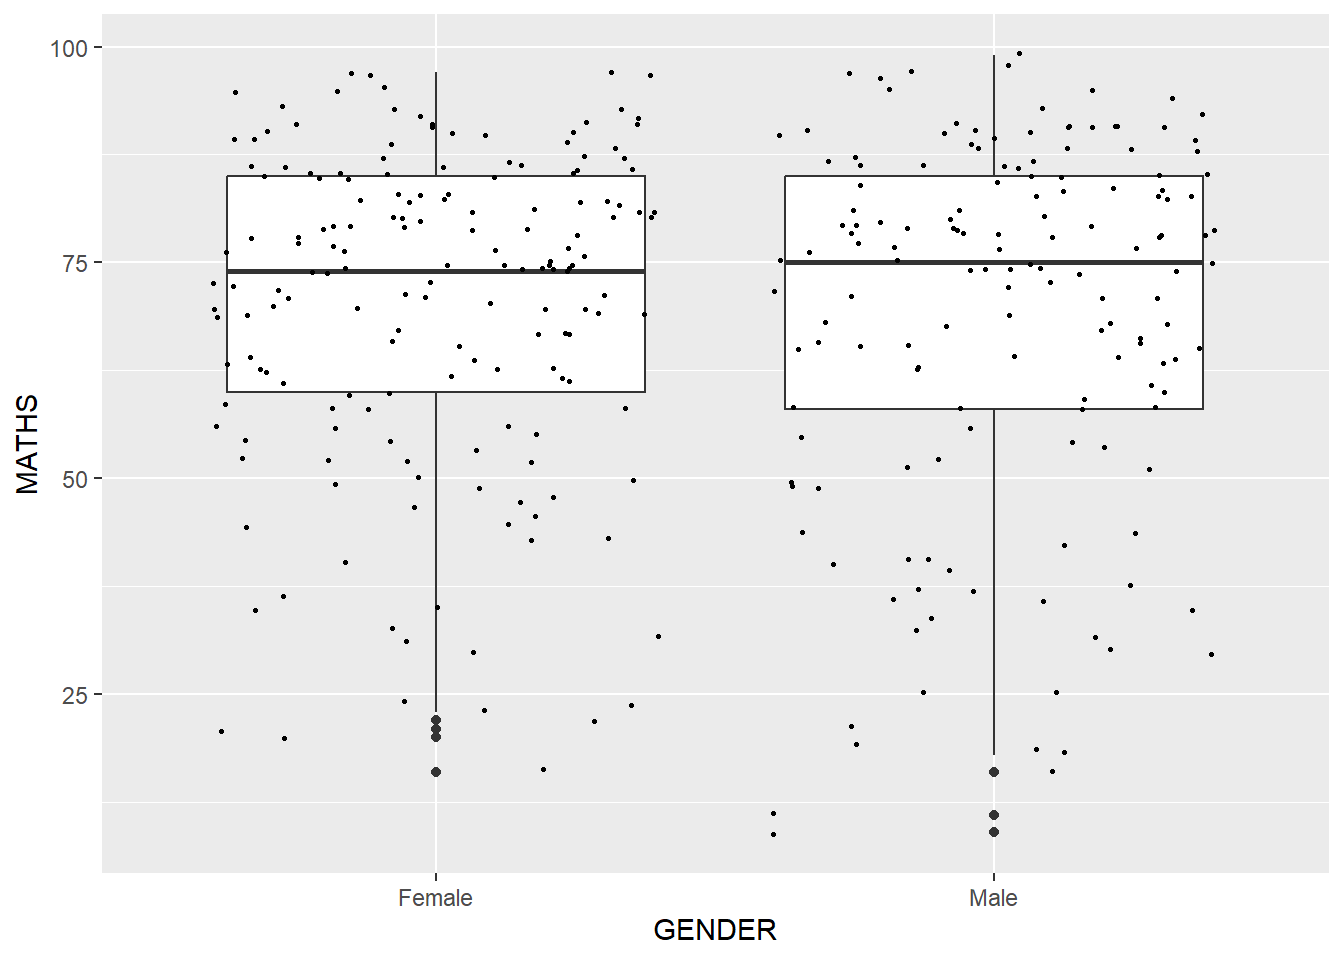
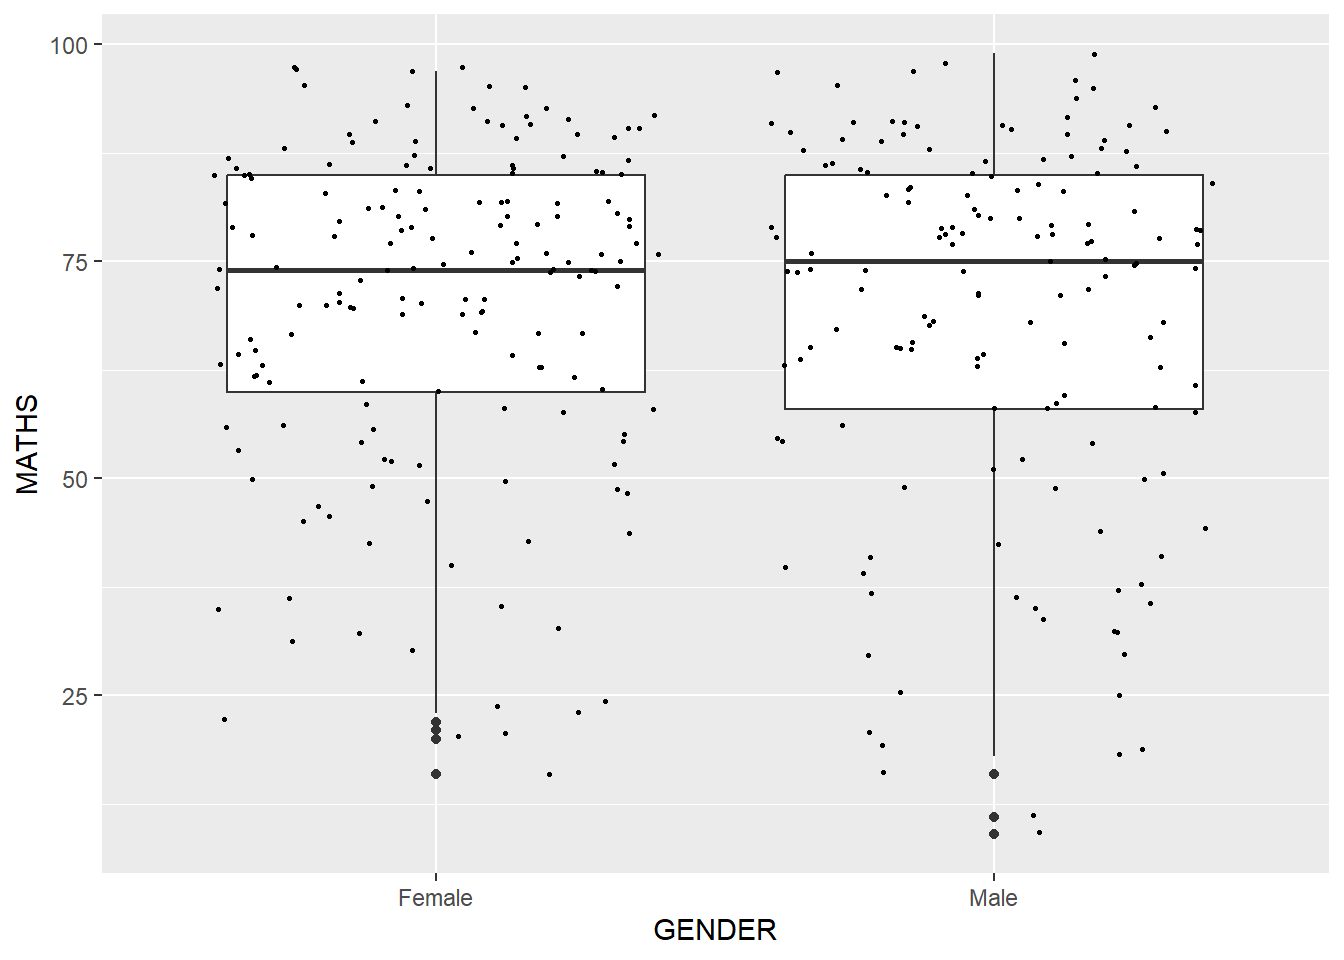
minor change

diff --git a/site_libs/clipboard/clipboard.min.js b/site_libs/clipboard/clipboard.min.js
@@ -1,0 +1,7 @@
+/*!
+ * clipboard.js v2.0.11
+ * https://clipboardjs.com/
+ *
+ * Licensed MIT © Zeno Rocha
+ */
+!function(t,e){"object"==typeof exports&&"object"==typeof module?module.exports=e():"function"==typeof define&&define.amd?define([],e):"object"==typeof exports?exports.ClipboardJS=e():t.ClipboardJS=e()}(this,function(){return n={686:function(t,e,n){"use strict";n.d(e,{default:function(){return b}});var e=n(279),i=n.n(e),e=n(370),u=n.n(e),e=n(817),r=n.n(e);function c(t){try{return document.execCommand(t)}catch(t){return}}var a=function(t){t=r()(t);return c("cut"),t};function o(t,e){var n,o,t=(n=t,o="rtl"===document.documentElement.getAttribute("dir"),(t=document.createElement("textarea")).style.fontSize="12pt",t.style.border="0",t.style.padding="0",t.style.margin="0",t.style.position="absolute",t.style[o?"right":"left"]="-9999px",o=window.pageYOffset||document.documentElement.scrollTop,t.style.top="".concat(o,"px"),t.setAttribute("readonly",""),t.value=n,t);return e.container.appendChild(t),e=r()(t),c("copy"),t.remove(),e}var f=function(t){var e=1<arguments.length&&void 0!==arguments[1]?arguments[1]:{container:document.body},n="";return"string"==typeof t?n=o(t,e):t instanceof HTMLInputElement&&!["text","search","url","tel","password"].includes(null==t?void 0:t.type)?n=o(t.value,e):(n=r()(t),c("copy")),n};function l(t){return(l="function"==typeof Symbol&&"symbol"==typeof Symbol.iterator?function(t){return typeof t}:function(t){return t&&"function"==typeof Symbol&&t.constructor===Symbol&&t!==Symbol.prototype?"symbol":typeof t})(t)}var s=function(){var t=0<arguments.length&&void 0!==arguments[0]?arguments[0]:{},e=t.action,n=void 0===e?"copy":e,o=t.container,e=t.target,t=t.text;if("copy"!==n&&"cut"!==n)throw new Error('Invalid "action" value, use either "copy" or "cut"');if(void 0!==e){if(!e||"object"!==l(e)||1!==e.nodeType)throw new Error('Invalid "target" value, use a valid Element');if("copy"===n&&e.hasAttribute("disabled"))throw new Error('Invalid "target" attribute. Please use "readonly" instead of "disabled" attribute');if("cut"===n&&(e.hasAttribute("readonly")||e.hasAttribute("disabled")))throw new Error('Invalid "target" attribute. You can\'t cut text from elements with "readonly" or "disabled" attributes')}return t?f(t,{container:o}):e?"cut"===n?a(e):f(e,{container:o}):void 0};function p(t){return(p="function"==typeof Symbol&&"symbol"==typeof Symbol.iterator?function(t){return typeof t}:function(t){return t&&"function"==typeof Symbol&&t.constructor===Symbol&&t!==Symbol.prototype?"symbol":typeof t})(t)}function d(t,e){for(var n=0;n<e.length;n++){var o=e[n];o.enumerable=o.enumerable||!1,o.configurable=!0,"value"in o&&(o.writable=!0),Object.defineProperty(t,o.key,o)}}function y(t,e){return(y=Object.setPrototypeOf||function(t,e){return t.__proto__=e,t})(t,e)}function h(n){var o=function(){if("undefined"==typeof Reflect||!Reflect.construct)return!1;if(Reflect.construct.sham)return!1;if("function"==typeof Proxy)return!0;try{return Date.prototype.toString.call(Reflect.construct(Date,[],function(){})),!0}catch(t){return!1}}();return function(){var t,e=v(n);return t=o?(t=v(this).constructor,Reflect.construct(e,arguments,t)):e.apply(this,arguments),e=this,!(t=t)||"object"!==p(t)&&"function"!=typeof t?function(t){if(void 0!==t)return t;throw new ReferenceError("this hasn't been initialised - super() hasn't been called")}(e):t}}function v(t){return(v=Object.setPrototypeOf?Object.getPrototypeOf:function(t){return t.__proto__||Object.getPrototypeOf(t)})(t)}function m(t,e){t="data-clipboard-".concat(t);if(e.hasAttribute(t))return e.getAttribute(t)}var b=function(){!function(t,e){if("function"!=typeof e&&null!==e)throw new TypeError("Super expression must either be null or a function");t.prototype=Object.create(e&&e.prototype,{constructor:{value:t,writable:!0,configurable:!0}}),e&&y(t,e)}(r,i());var t,e,n,o=h(r);function r(t,e){var n;return function(t){if(!(t instanceof r))throw new TypeError("Cannot call a class as a function")}(this),(n=o.call(this)).resolveOptions(e),n.listenClick(t),n}return t=r,n=[{key:"copy",value:function(t){var e=1<arguments.length&&void 0!==arguments[1]?arguments[1]:{container:document.body};return f(t,e)}},{key:"cut",value:function(t){return a(t)}},{key:"isSupported",value:function(){var t=0<arguments.length&&void 0!==arguments[0]?arguments[0]:["copy","cut"],t="string"==typeof t?[t]:t,e=!!document.queryCommandSupported;return t.forEach(function(t){e=e&&!!document.queryCommandSupported(t)}),e}}],(e=[{key:"resolveOptions",value:function(){var t=0<arguments.length&&void 0!==arguments[0]?arguments[0]:{};this.action="function"==typeof t.action?t.action:this.defaultAction,this.target="function"==typeof t.target?t.target:this.defaultTarget,this.text="function"==typeof t.text?t.text:this.defaultText,this.container="object"===p(t.container)?t.container:document.body}},{key:"listenClick",value:function(t){var e=this;this.listener=u()(t,"click",function(t){return e.onClick(t)})}},{key:"onClick",value:function(t){var e=t.delegateTarget||t.currentTarget,n=this.action(e)||"copy",t=s({action:n,container:this.container,target:this.target(e),text:this.text(e)});this.emit(t?"success":"error",{action:n,text:t,trigger:e,clearSelection:function(){e&&e.focus(),window.getSelection().removeAllRanges()}})}},{key:"defaultAction",value:function(t){return m("action",t)}},{key:"defaultTarget",value:function(t){t=m("target",t);if(t)return document.querySelector(t)}},{key:"defaultText",value:function(t){return m("text",t)}},{key:"destroy",value:function(){this.listener.destroy()}}])&&d(t.prototype,e),n&&d(t,n),r}()},828:function(t){var e;"undefined"==typeof Element||Element.prototype.matches||((e=Element.prototype).matches=e.matchesSelector||e.mozMatchesSelector||e.msMatchesSelector||e.oMatchesSelector||e.webkitMatchesSelector),t.exports=function(t,e){for(;t&&9!==t.nodeType;){if("function"==typeof t.matches&&t.matches(e))return t;t=t.parentNode}}},438:function(t,e,n){var u=n(828);function i(t,e,n,o,r){var i=function(e,n,t,o){return function(t){t.delegateTarget=u(t.target,n),t.delegateTarget&&o.call(e,t)}}.apply(this,arguments);return t.addEventListener(n,i,r),{destroy:function(){t.removeEventListener(n,i,r)}}}t.exports=function(t,e,n,o,r){return"function"==typeof t.addEventListener?i.apply(null,arguments):"function"==typeof n?i.bind(null,document).apply(null,arguments):("string"==typeof t&&(t=document.querySelectorAll(t)),Array.prototype.map.call(t,function(t){return i(t,e,n,o,r)}))}},879:function(t,n){n.node=function(t){return void 0!==t&&t instanceof HTMLElement&&1===t.nodeType},n.nodeList=function(t){var e=Object.prototype.toString.call(t);return void 0!==t&&("[object NodeList]"===e||"[object HTMLCollection]"===e)&&"length"in t&&(0===t.length||n.node(t[0]))},n.string=function(t){return"string"==typeof t||t instanceof String},n.fn=function(t){return"[object Function]"===Object.prototype.toString.call(t)}},370:function(t,e,n){var f=n(879),l=n(438);t.exports=function(t,e,n){if(!t&&!e&&!n)throw new Error("Missing required arguments");if(!f.string(e))throw new TypeError("Second argument must be a String");if(!f.fn(n))throw new TypeError("Third argument must be a Function");if(f.node(t))return c=e,a=n,(u=t).addEventListener(c,a),{destroy:function(){u.removeEventListener(c,a)}};if(f.nodeList(t))return o=t,r=e,i=n,Array.prototype.forEach.call(o,function(t){t.addEventListener(r,i)}),{destroy:function(){Array.prototype.forEach.call(o,function(t){t.removeEventListener(r,i)})}};if(f.string(t))return t=t,e=e,n=n,l(document.body,t,e,n);throw new TypeError("First argument must be a String, HTMLElement, HTMLCollection, or NodeList");var o,r,i,u,c,a}},817:function(t){t.exports=function(t){var e,n="SELECT"===t.nodeName?(t.focus(),t.value):"INPUT"===t.nodeName||"TEXTAREA"===t.nodeName?((e=t.hasAttribute("readonly"))||t.setAttribute("readonly",""),t.select(),t.setSelectionRange(0,t.value.length),e||t.removeAttribute("readonly"),t.value):(t.hasAttribute("contenteditable")&&t.focus(),n=window.getSelection(),(e=document.createRange()).selectNodeContents(t),n.removeAllRanges(),n.addRange(e),n.toString());return n}},279:function(t){function e(){}e.prototype={on:function(t,e,n){var o=this.e||(this.e={});return(o[t]||(o[t]=[])).push({fn:e,ctx:n}),this},once:function(t,e,n){var o=this;function r(){o.off(t,r),e.apply(n,arguments)}return r._=e,this.on(t,r,n)},emit:function(t){for(var e=[].slice.call(arguments,1),n=((this.e||(this.e={}))[t]||[]).slice(),o=0,r=n.length;o<r;o++)n[o].fn.apply(n[o].ctx,e);return this},off:function(t,e){var n=this.e||(this.e={}),o=n[t],r=[];if(o&&e)for(var i=0,u=o.length;i<u;i++)o[i].fn!==e&&o[i].fn._!==e&&r.push(o[i]);return r.length?n[t]=r:delete n[t],this}},t.exports=e,t.exports.TinyEmitter=e}},r={},o.n=function(t){var e=t&&t.__esModule?function(){return t.default}:function(){return t};return o.d(e,{a:e}),e},o.d=function(t,e){for(var n in e)o.o(e,n)&&!o.o(t,n)&&Object.defineProperty(t,n,{enumerable:!0,get:e[n]})},o.o=function(t,e){return Object.prototype.hasOwnProperty.call(t,e)},o(686).default;function o(t){if(r[t])return r[t].exports;var e=r[t]={exports:{}};return n[t](e,e.exports,o),e.exports}var n,r});

diff --git a/_site/Hands-on_Ex/Hands-on_Ex01/Hands-on_Ex01.html b/_site/Hands-on_Ex/Hands-on_Ex01/Hands-on_Ex01.html
@@ -132,6 +132,26 @@ pre > code.sourceCode > span > a:first-child::before { text-decoration: underlin
     <a class="dropdown-item" href="../../Hands-on_Ex/Hands-on_Ex01/Hands-on_Ex01.html">
  <span class="dropdown-text">Hands-on Exercise 1</span></a>
   </li>  
+        <li>
+    <a class="dropdown-item" href="../../Hands-on_Ex/Hands-on_Ex02/Hands-on_Ex02.html">
+ <span class="dropdown-text">Hands-on_Exercise 2</span></a>
+  </li>  
+    </ul>
+  </li>
+  <li class="nav-item dropdown ">
+    <a class="nav-link dropdown-toggle" href="#" id="nav-menu-in-class-exercise" role="link" data-bs-toggle="dropdown" aria-expanded="false">
+ <span class="menu-text">In-class Exercise</span>
+    </a>
+    <ul class="dropdown-menu" aria-labelledby="nav-menu-in-class-exercise">    
+        <li class="dropdown-header">empty for now</li>
+    </ul>
+  </li>
+  <li class="nav-item dropdown ">
+    <a class="nav-link dropdown-toggle" href="#" id="nav-menu-take-home-exercise" role="link" data-bs-toggle="dropdown" aria-expanded="false">
+ <span class="menu-text">Take-home Exercise</span>
+    </a>
+    <ul class="dropdown-menu" aria-labelledby="nav-menu-take-home-exercise">    
+        <li class="dropdown-header">Take-home Exercise 1</li>
     </ul>
   </li>
 </ul>

diff --git a/_site/about.html b/_site/about.html
@@ -131,6 +131,26 @@ pre > code.sourceCode > span > a:first-child::before { text-decoration: underlin
     <a class="dropdown-item" href="./Hands-on_Ex/Hands-on_Ex01/Hands-on_Ex01.html">
  <span class="dropdown-text">Hands-on Exercise 1</span></a>
   </li>  
+        <li>
+    <a class="dropdown-item" href="./Hands-on_Ex/Hands-on_Ex02/Hands-on_Ex02.html">
+ <span class="dropdown-text">Hands-on_Exercise 2</span></a>
+  </li>  
+    </ul>
+  </li>
+  <li class="nav-item dropdown ">
+    <a class="nav-link dropdown-toggle" href="#" id="nav-menu-in-class-exercise" role="link" data-bs-toggle="dropdown" aria-expanded="false">
+ <span class="menu-text">In-class Exercise</span>
+    </a>
+    <ul class="dropdown-menu" aria-labelledby="nav-menu-in-class-exercise">    
+        <li class="dropdown-header">empty for now</li>
+    </ul>
+  </li>
+  <li class="nav-item dropdown ">
+    <a class="nav-link dropdown-toggle" href="#" id="nav-menu-take-home-exercise" role="link" data-bs-toggle="dropdown" aria-expanded="false">
+ <span class="menu-text">Take-home Exercise</span>
+    </a>
+    <ul class="dropdown-menu" aria-labelledby="nav-menu-take-home-exercise">    
+        <li class="dropdown-header">Take-home Exercise 1</li>
     </ul>
   </li>
 </ul>

diff --git a/_site/index.html b/_site/index.html
@@ -131,6 +131,26 @@ pre > code.sourceCode > span > a:first-child::before { text-decoration: underlin
     <a class="dropdown-item" href="./Hands-on_Ex/Hands-on_Ex01/Hands-on_Ex01.html">
  <span class="dropdown-text">Hands-on Exercise 1</span></a>
   </li>  
+        <li>
+    <a class="dropdown-item" href="./Hands-on_Ex/Hands-on_Ex02/Hands-on_Ex02.html">
+ <span class="dropdown-text">Hands-on Exercise 2</span></a>
+  </li>  
+    </ul>
+  </li>
+  <li class="nav-item dropdown ">
+    <a class="nav-link dropdown-toggle" href="#" id="nav-menu-in-class-exercise" role="link" data-bs-toggle="dropdown" aria-expanded="false">
+ <span class="menu-text">In-class Exercise</span>
+    </a>
+    <ul class="dropdown-menu" aria-labelledby="nav-menu-in-class-exercise">    
+        <li class="dropdown-header">empty for now</li>
+    </ul>
+  </li>
+  <li class="nav-item dropdown ">
+    <a class="nav-link dropdown-toggle" href="#" id="nav-menu-take-home-exercise" role="link" data-bs-toggle="dropdown" aria-expanded="false">
+ <span class="menu-text">Take-home Exercise</span>
+    </a>
+    <ul class="dropdown-menu" aria-labelledby="nav-menu-take-home-exercise">    
+        <li class="dropdown-header">Take-home Exercise 1</li>
     </ul>
   </li>
 </ul>

diff --git a/_site/Hands-on_Ex/Hands-on_Ex02/Hands-on_Ex02.html b/_site/Hands-on_Ex/Hands-on_Ex02/Hands-on_Ex02.html
@@ -138,6 +138,22 @@ pre > code.sourceCode > span > a:first-child::before { text-decoration: underlin
   </li>  
     </ul>
   </li>
+  <li class="nav-item dropdown ">
+    <a class="nav-link dropdown-toggle" href="#" id="nav-menu-in-class-exercise" role="link" data-bs-toggle="dropdown" aria-expanded="false">
+ <span class="menu-text">In-class Exercise</span>
+    </a>
+    <ul class="dropdown-menu" aria-labelledby="nav-menu-in-class-exercise">    
+        <li class="dropdown-header">empty for now</li>
+    </ul>
+  </li>
+  <li class="nav-item dropdown ">
+    <a class="nav-link dropdown-toggle" href="#" id="nav-menu-take-home-exercise" role="link" data-bs-toggle="dropdown" aria-expanded="false">
+ <span class="menu-text">Take-home Exercise</span>
+    </a>
+    <ul class="dropdown-menu" aria-labelledby="nav-menu-take-home-exercise">    
+        <li class="dropdown-header">Take-home Exercise 1</li>
+    </ul>
+  </li>
 </ul>
             <ul class="navbar-nav navbar-nav-scroll ms-auto">
   <li class="nav-item">
